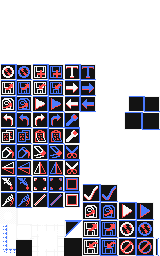
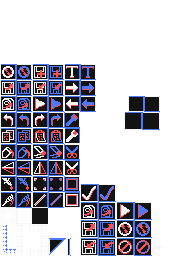
added exploding flies

diff --git a/internal/systems/characters.go b/internal/systems/characters.go
@@ -41,7 +41,7 @@ func PlayerCharacter(pos pixel.Vec, pIndex int) *data.Dynamic {
 	return player
 }
 
-func DemonCharacter(pos pixel.Vec, pIndex int) *data.Dynamic {
+func DemonCharacter(pos pixel.Vec) *data.Dynamic {
 	obj := object.New().WithID("demon")
 	obj.SetRect(pixel.R(0, 0, 12, 16))
 	obj.Pos = pos
@@ -73,7 +73,7 @@ func KillPlayer(level *data.Level, p int, ch *data.Dynamic, entity *ecs.Entity) 
 	bg, ok := entity.GetComponentData(myecs.Dynamic)
 	if ok {
 		enemy := bg.(*data.Dynamic)
-		if (enemy.State == data.Grounded || enemy.State == data.Ladder || enemy.State == data.Leaping) &&
+		if (enemy.State == data.Grounded || enemy.State == data.Ladder || enemy.State == data.Leaping || enemy.State == data.Flying) &&
 			(ch.State == data.Grounded || ch.State == data.Ladder || ch.State == data.Leaping || ch.State == data.Jumping) {
 			ch.Flags.Hit = true
 			ch.State = data.Hit
@@ -81,4 +81,29 @@ func KillPlayer(level *data.Level, p int, ch *data.Dynamic, entity *ecs.Entity) 
 			enemy.State = data.Attack
 		}
 	}
+}
+
+func FlyCharacter(pos pixel.Vec, left bool) *data.Dynamic {
+	obj := object.New().WithID("fly")
+	obj.SetRect(pixel.R(0, 0, 12, 12))
+	obj.Pos = pos
+	obj.Flip = left
+	obj.Layer = 29
+	fly := data.NewDynamic()
+	fly.Control = controllers.NewBackAndForth(fly, left)
+	fly.State = data.Flying
+	fly.Flags.Flying = true
+	fly.Object = obj
+	fly.Anim = reanimator.FlyAnimation(fly)
+	fly.Vars = data.FlyVars()
+	e := myecs.Manager.NewEntity()
+	fly.Entity = e
+	e.AddComponent(myecs.Object, fly.Object)
+	e.AddComponent(myecs.Temp, myecs.ClearFlag(false))
+	e.AddComponent(myecs.Animated, fly.Anim)
+	e.AddComponent(myecs.Drawable, fly.Anim)
+	e.AddComponent(myecs.Dynamic, fly)
+	e.AddComponent(myecs.OnTouch, data.NewInteract(KillPlayer))
+	e.AddComponent(myecs.Controller, fly.Control)
+	return fly
 }

diff --git a/internal/data/tile.go b/internal/data/tile.go
@@ -22,6 +22,7 @@ const (
 	BlockLockBlue
 	BlockPlayer1
 	BlockDemon
+	BlockFly
 	BlockBox
 	BlockKeyPink
 	BlockKeyBlue
@@ -53,6 +54,8 @@ func (b Block) String() string {
 		return constants.CharPlayer1
 	case BlockDemon:
 		return constants.CharDemon
+	case BlockFly:
+		return constants.CharFly
 	case BlockBox:
 		return constants.ItemBox
 	case BlockKeyPink:
@@ -81,6 +84,7 @@ var toID = map[string]Block{
 	constants.TileLockBlue:     BlockLockBlue,
 	constants.CharPlayer1:      BlockPlayer1,
 	constants.CharDemon:        BlockDemon,
+	constants.CharFly:          BlockFly,
 	constants.ItemBox:          BlockBox,
 	constants.ItemKeyPink:      BlockKeyPink,
 	constants.ItemKeyBlue:      BlockKeyBlue,
@@ -116,19 +120,21 @@ func (b *Block) UnmarshalJSON(bts []byte) error {
 }
 
 type Tile struct {
-	Block  Block          `json:"tile"`
-	Ladder bool           `json:"ladder"`
-	Coords world.Coords   `json:"-"`
-	Object *object.Object `json:"-"`
-	Update bool           `json:"-"`
-	Entity *ecs.Entity    `json:"-"`
+	Block    Block          `json:"tile"`
+	Ladder   bool           `json:"ladder"`
+	Metadata TileMetadata   `json:"metadata"`
+	Coords   world.Coords   `json:"-"`
+	Object   *object.Object `json:"-"`
+	Update   bool           `json:"-"`
+	Entity   *ecs.Entity    `json:"-"`
 }
 
 func (t *Tile) Copy() *Tile {
 	return &Tile{
-		Block:  t.Block,
-		Ladder: t.Ladder,
-		Coords: t.Coords,
+		Block:    t.Block,
+		Ladder:   t.Ladder,
+		Coords:   t.Coords,
+		Metadata: t.Metadata,
 	}
 }
 
@@ -193,4 +199,8 @@ func (t *Tile) PathNeighborCost(to astar.Pather) float64 {
 
 func (t *Tile) PathEstimatedCost(to astar.Pather) float64 {
 	return 1.
+}
+
+type TileMetadata struct {
+	Flipped bool `json:"flipped"`
 }

diff --git a/internal/systems/character-action.go b/internal/systems/character-action.go
@@ -93,6 +93,9 @@ func CharacterActionSystem() {
 						jumping(ch, tile)
 					case data.Leaping:
 						leaping(ch, tile)
+					case data.Flying:
+						pickup(ch)
+						flying(ch, tile)
 					}
 					ch.Flags.Frame = true
 				}
@@ -292,6 +295,22 @@ func pickup(ch *data.Dynamic) {
 		if ch.Flags.HoldUp || ch.Flags.HoldSide {
 			//ch.Flags.Drop = true
 			ch.Flags.Action = true
+		}
+	}
+}
+
+func flying(ch *data.Dynamic, tile *data.Tile) {
+	if !ch.Flags.PickUp {
+		if ch.Actions.Direction == data.Left { // fly left
+			ch.Object.Pos.X -= ch.Vars.WalkSpeed
+			ch.Object.Flip = true
+		} else if ch.Actions.Direction == data.Right { // fly right
+			ch.Object.Pos.X += ch.Vars.WalkSpeed
+			ch.Object.Flip = false
+		} else if ch.Actions.Direction == data.Up { // fly up
+			ch.Object.Pos.Y += ch.Vars.WalkSpeed
+		} else if ch.Actions.Direction == data.Down { // fly down
+			ch.Object.Pos.Y -= ch.Vars.WalkSpeed
 		}
 	}
 }

diff --git a/internal/systems/reanimator/flying.go b/internal/systems/reanimator/flying.go
@@ -1,0 +1,31 @@
+package reanimator
+
+import (
+	"gemrunner/internal/constants"
+	"gemrunner/internal/data"
+	"gemrunner/pkg/img"
+	"gemrunner/pkg/reanimator"
+)
+
+func FlyAnimation(ch *data.Dynamic) *reanimator.Tree {
+	batch := img.Batchers[constants.TileBatch]
+	idle := reanimator.NewBatchSprite("idle", batch, "fly_idle", reanimator.Hold)
+	flying := reanimator.NewBatchAnimation("flying", batch, "fly_flying", reanimator.Loop)
+	boom := reanimator.NewBatchAnimation("boom", batch, "fly_boom", reanimator.Tran)
+	boom.SetEndTrigger(func() {
+		ch.State = data.Dead
+	})
+	return reanimator.New(reanimator.NewSwitch().
+		AddAnimation(idle).
+		AddAnimation(flying).
+		AddAnimation(boom).
+		AddNull("none").
+		SetChooseFn(func() string {
+			if ch.State == data.Hit || ch.State == data.Attack {
+				return "boom"
+			} else if ch.State == data.Dead {
+				return "none"
+			}
+			return "flying"
+		}), "flying")
+}

diff --git a/pkg/debug/text.go b/pkg/debug/text.go
@@ -18,17 +18,19 @@ func InitializeText() {
 }
 
 func DrawText(win *pixelgl.Window) {
-	var sb strings.Builder
-	for i, line := range lines {
-		if i != 0 {
-			sb.WriteString("\n")
+	if ShowText {
+		var sb strings.Builder
+		for i, line := range lines {
+			if i != 0 {
+				sb.WriteString("\n")
+			}
+			sb.WriteString(line)
 		}
-		sb.WriteString(line)
+		debugText.SetText(sb.String())
+		debugText.Obj.Pos = winV.Add(pixel.V(win.Bounds().W()*-0.5+2., win.Bounds().H()*0.5-2))
+		debugText.Obj.Update()
+		debugText.Draw(win)
 	}
-	debugText.SetText(sb.String())
-	debugText.Obj.Pos = winV.Add(pixel.V(win.Bounds().W()*-0.5+2., win.Bounds().H()*0.5-2))
-	debugText.Obj.Update()
-	debugText.Draw(win)
 }
 
 func AddText(s string) {

diff --git a/internal/data/character.go b/internal/data/character.go
@@ -126,6 +126,7 @@ const (
 	Falling
 	Jumping
 	Leaping
+	Flying
 	Attack
 	Hit
 	Dead
@@ -143,6 +144,8 @@ func (s CharacterState) String() string {
 		return "Jumping"
 	case Leaping:
 		return "Leaping"
+	case Flying:
+		return "Flying"
 	case Attack:
 		return "Attack"
 	case Hit:
@@ -179,6 +182,7 @@ type Flags struct {
 	Hit        bool
 	Dead       bool
 	Attack     bool
+	Flying     bool
 	Frame      bool
 	JumpBuff   int
 	PickUpBuff int
@@ -234,5 +238,11 @@ func DemonVars() Vars {
 		LgJumpTimer:  constants.DemonLongJumpTimer,
 		LgJumpCntr:   constants.DemonLongJumpCounter,
 		IdleFreq:     constants.IdleFrequency,
+	}
+}
+
+func FlyVars() Vars {
+	return Vars{
+		WalkSpeed: constants.FlySpeed,
 	}
 }

diff --git a/internal/controllers/back-and-forth.go b/internal/controllers/back-and-forth.go
@@ -1,0 +1,35 @@
+package controllers
+
+import (
+	"gemrunner/internal/data"
+)
+
+type BackAndForth struct {
+	Ch   *data.Dynamic
+	Left bool
+}
+
+func NewBackAndForth(dyn *data.Dynamic, left bool) *BackAndForth {
+	return &BackAndForth{
+		Ch:   dyn,
+		Left: left,
+	}
+}
+
+func (bf *BackAndForth) ClearPrev() {}
+
+func (bf *BackAndForth) GetActions() data.Actions {
+	actions := data.NewAction()
+	if bf.Ch.Flags.RightWall {
+		bf.Left = true
+		actions.Direction = data.Left
+	} else if bf.Ch.Flags.LeftWall {
+		bf.Left = false
+		actions.Direction = data.Right
+	} else if bf.Left {
+		actions.Direction = data.Left
+	} else {
+		actions.Direction = data.Right
+	}
+	return actions
+}

diff --git a/internal/systems/character-state.go b/internal/systems/character-state.go
@@ -110,12 +110,22 @@ func CharacterStateSystem() {
 							ch.State = data.Falling
 						}
 					}
+				case data.Flying:
+					if !ch.Flags.Flying {
+						if ch.Flags.Floor {
+							ch.State = data.Grounded
+						} else if tile != nil && tile.Ladder {
+							ch.State = data.Ladder
+						} else {
+							ch.State = data.Falling
+						}
+					}
 				case data.Hit:
-					if ch.Flags.Hit == false {
+					if !ch.Flags.Hit {
 						ch.State = data.Dead
 					}
 				case data.Attack:
-					if ch.Flags.Attack == false {
+					if !ch.Flags.Attack {
 						if ch.Flags.Floor {
 							ch.State = data.Grounded
 						} else if tile != nil && tile.Ladder {

diff --git a/internal/systems/level.go b/internal/systems/level.go
@@ -39,9 +39,13 @@ func LevelInit() {
 				data.CurrLevel.Stats[0] = data.NewStats()
 			case data.BlockDemon:
 				tile.Block = data.BlockEmpty
-				demon := DemonCharacter(obj.Pos, 1)
+				demon := DemonCharacter(obj.Pos)
 				//data.CurrLevel.Players[1] = demon
 				data.CurrLevel.Chars = append(data.CurrLevel.Chars, demon)
+			case data.BlockFly:
+				tile.Block = data.BlockEmpty
+				fly := FlyCharacter(obj.Pos, tile.Metadata.Flipped)
+				data.CurrLevel.Chars = append(data.CurrLevel.Chars, fly)
 			case data.BlockGem:
 				tile.Block = data.BlockEmpty
 				CreateGem(obj.Pos)

diff --git a/cmd/gemrunner/gemrunner.go b/cmd/gemrunner/gemrunner.go
@@ -69,8 +69,8 @@ func run() {
 	data.PuzzleShader = sh
 
 	debug.Initialize(&viewport.MainCamera.PostCamPos)
-	debug.Text = true
-	debug.Debug = true
+	debug.ShowText = true
+	debug.ShowDebug = true
 
 	object.ILock = true
 
@@ -102,7 +102,10 @@ func run() {
 			options.BilinearFilter = !options.BilinearFilter
 		}
 		if data.DebugInput.Get("debugText").JustPressed() {
-			debug.Text = !debug.Text
+			debug.ShowText = !debug.ShowText
+		}
+		if data.DebugInput.Get("debug").JustPressed() {
+			debug.ShowDebug = !debug.ShowDebug
 		}
 
 		state.Update(win)

diff --git a/internal/systems/editor.go b/internal/systems/editor.go
@@ -336,6 +336,17 @@ func PuzzleEditSystem() {
 					}
 					CreateHighlight(coords)
 				}
+			case data.Wrench:
+				if legal {
+					if rClick.JustReleased() || click.JustReleased() {
+						tile := data.CurrPuzzle.Tiles.T[coords.Y][coords.X]
+						switch tile.Block {
+						case data.BlockFly:
+							tile.Metadata.Flipped = !tile.Metadata.Flipped
+							tile.Object.Flip = tile.Metadata.Flipped
+						}
+					}
+				}
 			case data.Select:
 				if lastLegal {
 					if click.Pressed() {

diff --git a/pkg/debug/debug.go b/pkg/debug/debug.go
@@ -6,9 +6,9 @@ import (
 )
 
 var (
-	Debug = false
-	Text  = false
-	winV  *pixel.Vec
+	ShowDebug = false
+	ShowText  = false
+	winV      *pixel.Vec
 )
 
 func Initialize(v *pixel.Vec) {
@@ -19,12 +19,8 @@ func Initialize(v *pixel.Vec) {
 }
 
 func Draw(win *pixelgl.Window) {
-	if Debug {
-		DrawLines(win)
-	}
-	if Text {
-		DrawText(win)
-	}
+	DrawLines(win)
+	DrawText(win)
 	DrawFPS(win)
 }
 
